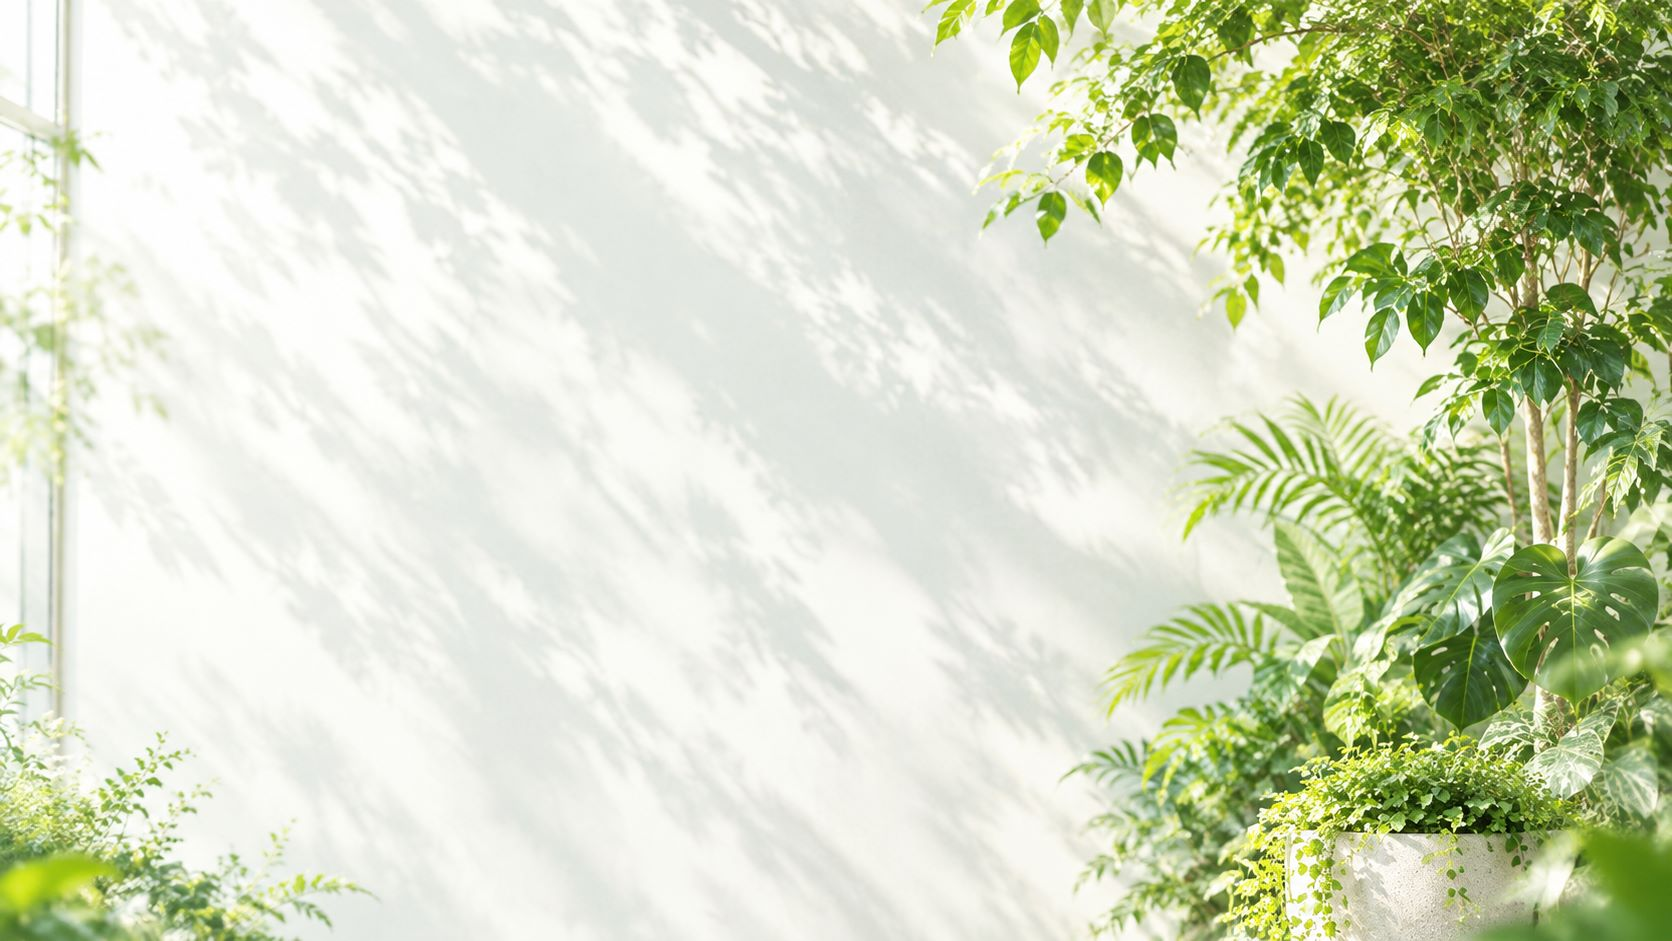
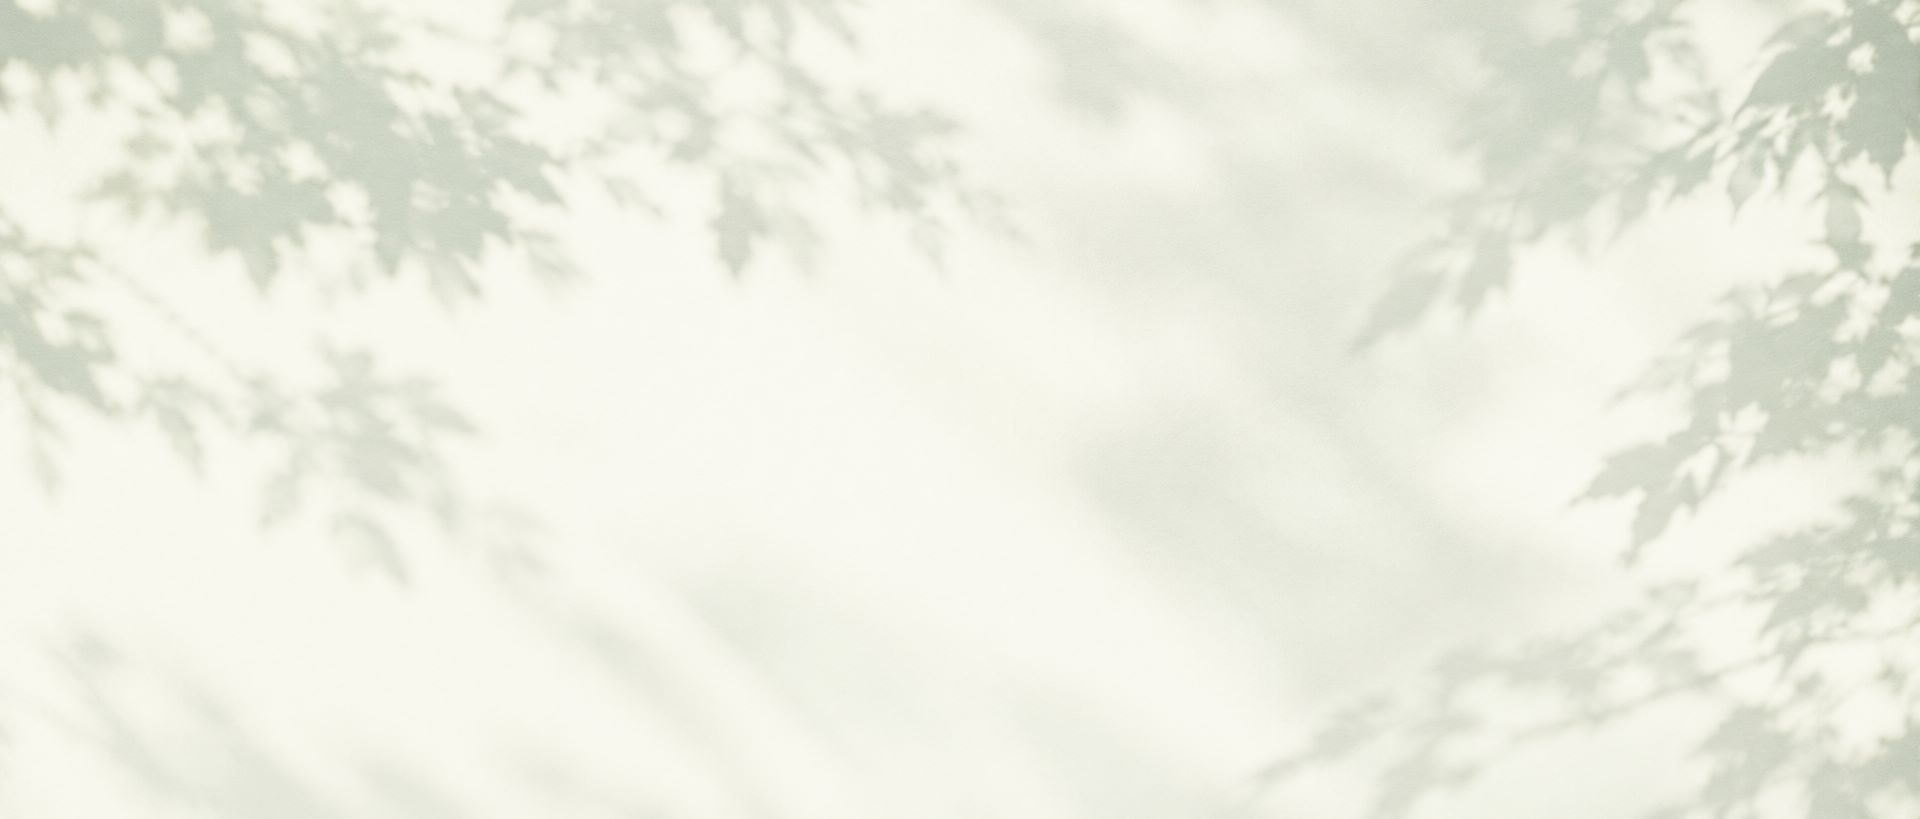
FVとAboutのPC版とスマホ版のデザイン完成！！！ jsも追加しました！！！

diff --git a/src/css/style.css b/src/css/style.css
@@ -8,7 +8,7 @@ main{
     background-image: url(../images/fv/fv_back_pc.jpg);
     background-size: cover;
     background-position: center; /*背景画像を左へずらす*/
-    height: 100svh; /*svhスマホの操作バーが表示されている状態を基準に高さを計算*/
+    min-height: 80svh; /*svhスマホの操作バーが表示されている状態を基準に高さを計算*/
     display: flex;
     align-items: center;
     /* 固定ヘッダーの高さ分、文字を下げる */
@@ -27,14 +27,13 @@ main{
 
 
 
-
 /*--------------------
     fv レスポンシブ
  ---------------------*/
 @media screen and (max-width:768px) {
     .fv{
         background-image: url(../images/fv/fv_back_sp.jpg);
-        min-height: 100svh;
+        min-height: 70svh;
         height: auto;
         background-position: center;
         .container{
@@ -113,6 +112,7 @@ main{
             width: 100%;
             height: 360px;
             object-fit: cover;
+            border-radius: 10px;
         }
     }
     /* 右側の大切にすること */
@@ -198,7 +198,6 @@ main{
    about レスポンシブ
  ---------------------*/
  @media screen and (max-width: 768px) {
-
     /* 上部のメインビジュアル */
     .about .about-hero {
         min-height: 350px;
@@ -214,15 +213,42 @@ main{
 
         & .container {
             grid-template-columns: 1fr;
-            gap: 4rem;
+            gap: 3rem;
+        }
+        /* 左側：説明文の下の余白 */
+        & .container .about-philosophy .description{
+            margin-bottom: 0;
         }
         /* 中央：写真の高さをスマホ用に調整 */
         & .container .about-photo img{
-            height: 280px;
+            width: 100%;
+            height: 260px;
+            object-fit: cover;
         }
         /* 右側：見出しのサイズ */
         & .container .about-values .about-heading{
             font-size: 1.8rem;
+        }
+        & .container .about-values .about-values-list{
+            gap: 1.2rem;
+
+            .about-value{
+                padding: 1.2rem 1rem 1.2rem 7rem;
+                border-radius: 1rem;
+                background-color: #F5F7F2;
+            }
+            /* アイコンの丸の位置 */
+            .about-value::before{
+                left: 1.2rem;
+            }
+            /* アイコンの画像の位置 */
+            .about-value .about-value-content::before {
+                left: -3.55rem;
+             
+            }
+            /* .about-value の左端から6remの位置
+            丸の中心はpadding 1.2rem + 〇の半分 2.25rem = 3.45rem
+            left 7rem - 3.45 = 3.55 */
         }
     }
 

diff --git a/src/js/scrollreveal.js b/src/js/scrollreveal.js
@@ -2,27 +2,67 @@ import ScrollReveal from "scrollreveal";
 
 // ScrollRevealの基本設定
 const sr = ScrollReveal();
-
-sr.reveal(".reveal", {
-    distance: "60px",
-    duration: 2000,
-    delay: 200,
-    reset: false,
-});
-
-
-//タイトル
-sr.reveal(".title", {
-  origin: "bottom",
-  distance: "40px",
-  duration: 1200,
-  delay: 0,
-});
-
-//説明文
-sr.reveal(".description",{
+// 共通設定
+const commonOption = {
     origin: "bottom",
     distance: "40px",
     duration: 1200,
+    reset: false,
+    viewFactor: 0.2, //要素の約20％が画面内に入ったら開始
+}
+
+
+//FV：タイトル
+sr.reveal(".fv-title", {
+  ...commonOption,
+  delay:100,
+});
+
+//FV：説明文
+sr.reveal(".fv-description",{
+   ...commonOption,
     delay:300,
+});
+
+//About：タイトル
+sr.reveal(".about-title", {
+    ...commonOption,
+    delay: 500,
+    viewFactor: 0.5,
+});
+
+
+
+//About：リード文
+sr.reveal(".about-lead", {
+    ...commonOption,
+    delay: 700,
+    viewFactor: 0.5,
+});
+
+//About：説明文
+sr.reveal(".about-description", {
+    ...commonOption,
+    delay: 800,
+    viewFactor: 0.5,
+});
+
+//About：写真
+sr.reveal(".about-photo", {
+    ...commonOption,
+    origin: "right",
+    delay: 450,
+    duration: 1000,
+    viewFactor: 0.3,
+});
+
+//About：アイコン項目を順番に表示
+sr.reveal(".about-value", {
+    ...commonOption,
+    origin: "right",
+    distance: "20px",
+    delay: 500,
+    duration: 800,
+    interval: 200,
+    viewFactor: 0.3,
 });

diff --git a/index.html b/index.html
@@ -133,9 +133,9 @@
         <div class="about-hero">
             <div class="container">
                 <div class="about-hero-content">
-                    <p class="subtitle">About Us</p>
+                    <p class="about-subtitle subtitle">About Us</p>
 
-                    <h2 class="title">
+                    <h2 class="about-title title">
                         植物と人をつなぎ、<br>
                         緑のある暮らしを育てる。
                     </h2>
@@ -157,7 +157,7 @@
                     買って終わりにしない。
                 </p>
 
-                <p class="description">
+                <p class="about-description description">
                     Green Lifeは、植物の販売・レンタル・空間デザインから、
                     日々のお手入れや病気の相談まで、植物のある暮らしをトータルでサポートする会社です。
                     植物を通して、人々の心に安らぎと、豊かな時間を届けたいと考えています。

diff --git a/src/css/base.css b/src/css/base.css
@@ -7,9 +7,10 @@
 
 /* アクセントカラー */
 --color-accent: #527565; /*緑*/
---color-accent2: #E9EEE5; /*薄い緑*/
+--color-accent2: #E9EEE5; /*すごく薄い緑*/
 --color-accent3: #203d35; /*すごく濃い緑*/
 --color-accent4: #2a5146; /*濃い緑*/
+--color-accent5: #A9C3AD; /*薄い緑*/
 
 
 
@@ -128,7 +129,7 @@ small{
 
 
 *{
-    outline:1px solid rgb(255, 145, 145);
+    /* outline:1px solid rgb(255, 145, 145); */
 }
 
 
